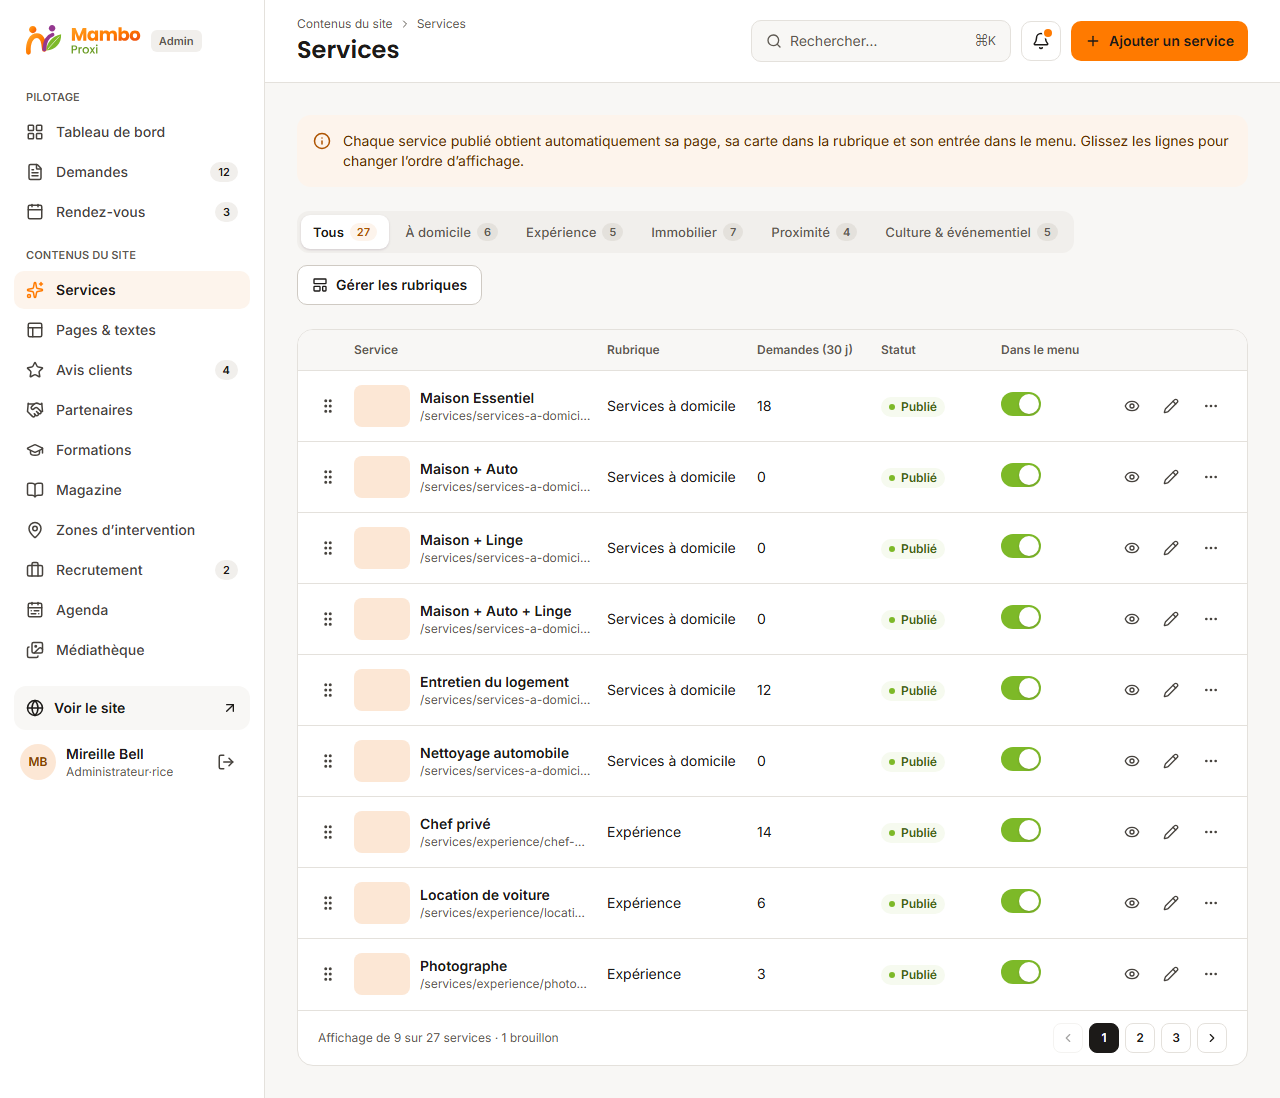
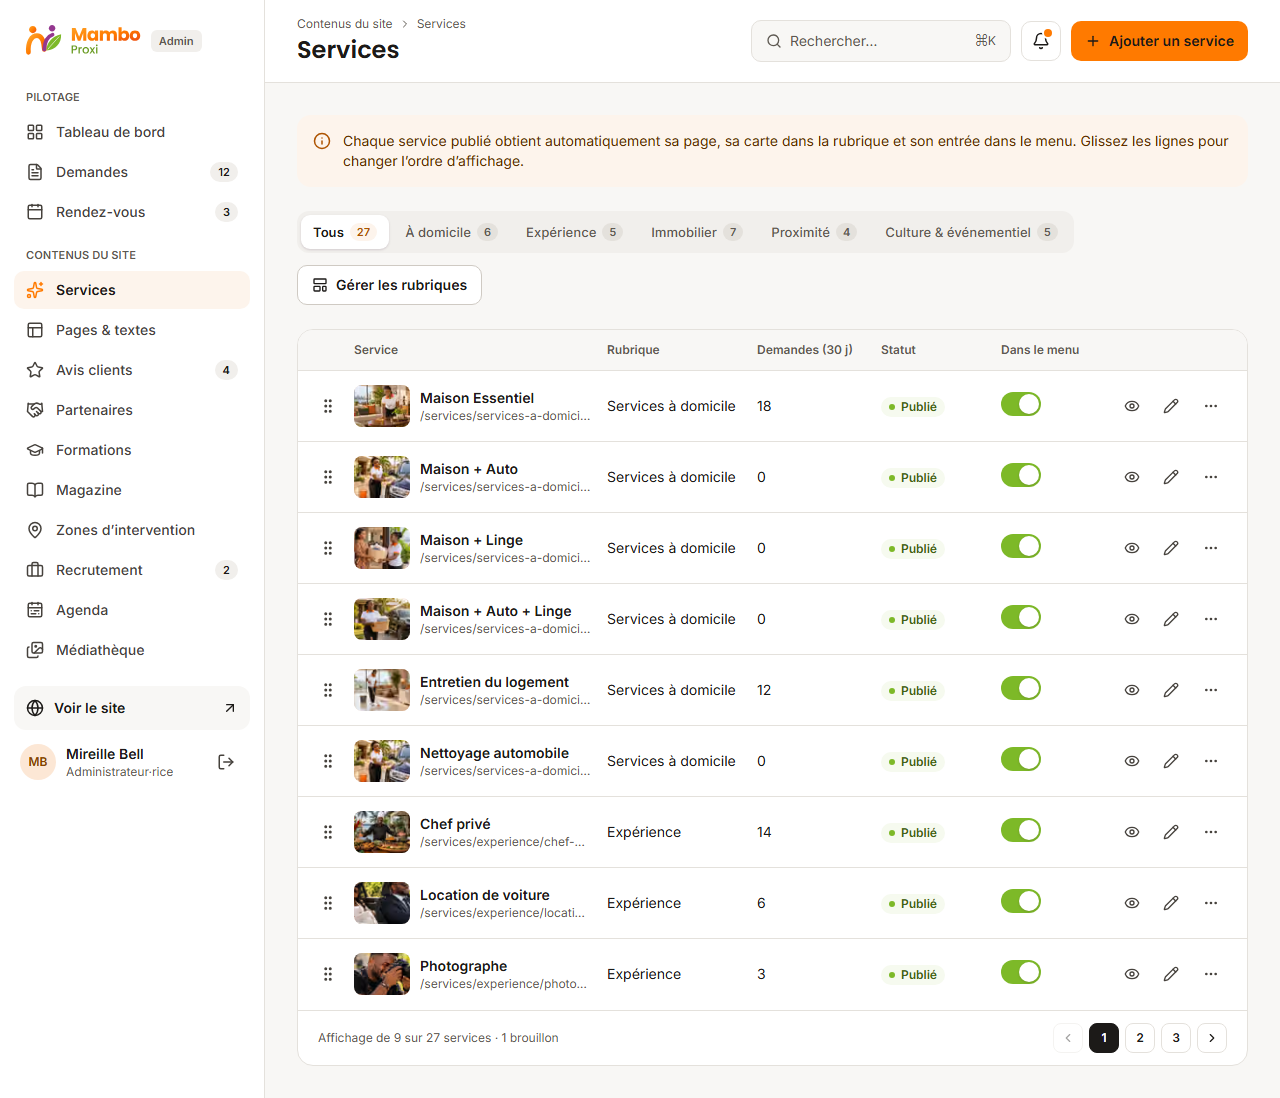
docs: médiathèque et 404 du back-office au suivi, captures

Changed region(s): [[0.25, 0.3406, 0.3438, 0.929]]

diff --git a/JOURNAL.md b/JOURNAL.md
@@ -832,3 +832,11 @@ Les maquettes Figma ont été refondues : recentrage sur Douala et les services 
 - **Familles d'e-mails** : l'interrupteur « Accusé de réception » active ou désactive les 8 accusés de réception (devis, contact, inscription, candidature, formation, partenariat, événement, rendez-vous) ; « Modèle » ouvre le principal (devis). Les e-mails de sécurité, la confirmation d'inscription à la newsletter et le gabarit des envois ne peuvent pas être désactivés (cadenas).
 - **Utilisateurs** : onglet de Paramètres comme sur la maquette ; l'entrée « Utilisateurs » de la barre latérale (écran non maquetté) est retirée.
 - **Adresse de l'agence** : un seul champ (première ligne d'adresse), « Adresse à compléter · Douala, Cameroun » en texte indicatif tant qu'elle n'est pas connue.
+
+### Back-office : Médiathèque (24 octobre 2026)
+
+- Écran non maquetté (`/admin/mediatheque`), dans le langage des listes du back-office : grille de vignettes (2 à 6 colonnes), recherche et pagination dans l'adresse (`?q=&page=&id=`), pastille « Utilisée · n » ou « Non utilisée » ; « Ajouter une image » dans la barre supérieure (fichier et texte alternatif obligatoire).
+- Détail en modale : texte alternatif, point focal (clic sur l'image ou flèches du clavier, aperçus des recadrages carré, 16:9 et portrait), informations (format, dimensions, poids, date d'ajout), usages avec liens vers les écrans concernés ; « Supprimer » désactivé tant que l'image est utilisée (l'API répond 409), confirmation sinon.
+- Zone d'envoi partagée avec le sélecteur d'images des éditeurs (`MediaUploadFields`, `imageFileError`).
+- Mocks : les 15 illustrations du site, usages calculés depuis le catalogue actuel (les libellés dataient de l'ancien catalogue) et les pages ; texte alternatif obligatoire à la modification ; tests `admin-media.test.ts` et `e2e/admin-media.spec.ts`.
+- La 404 du back-office existait déjà (adresse inconnue et contenu supprimé, dans la coque) : tâche cochée.

diff --git a/TASKS.md b/TASKS.md
@@ -69,7 +69,7 @@ Une page n'est cochée qu'après : fidélité 390/768/1280/1440 vérifiée (`qa/
 ### 1.4 Back-office `/admin`
 
 - [x] Connexion + vérification du code (OTP) + mot de passe oublié / réinitialisation / acceptation d'invitation
-- [~] Gabarit : barre latérale (compteurs), barre supérieure, recherche ⌘K, notifications, responsive (icônes, navigation basse mobile), 404 — reste la 404 du back-office
+- [x] Gabarit : barre latérale (compteurs), barre supérieure, recherche ⌘K, notifications, responsive (icônes, navigation basse mobile), 404 dans la coque
 - [x] Tableau de bord (desktop + mobile)
 - [x] Demandes (liste, filtres, panneau de détail, statuts, notes, export)
 - [x] Services (liste, réordonnancement, menu) + gestion des rubriques
@@ -84,7 +84,8 @@ Une page n'est cochée qu'après : fidélité 390/768/1280/1440 vérifiée (`qa/
 - [x] Contacts & inscrits (liste, fiche contact, export, RGPD)
 - [x] Newsletter (campagnes, éditeur, aperçu, test, programmation, inscrits)
 - [x] Paramètres (coordonnées, WhatsApp, réseaux, e-mails automatiques + éditeur de modèle, référencement, utilisateurs, sécurité & sauvegardes)
-- [ ] Médiathèque, journal d'activité (utilisateurs : onglet de Paramètres)
+- [x] Médiathèque (grille, recherche, texte alternatif, point focal, usages, envoi, suppression) — non maquettée
+- [ ] Journal d'activité — non maquetté (utilisateurs : onglet de Paramètres)
 
 ### 1.5 Transverse
 
